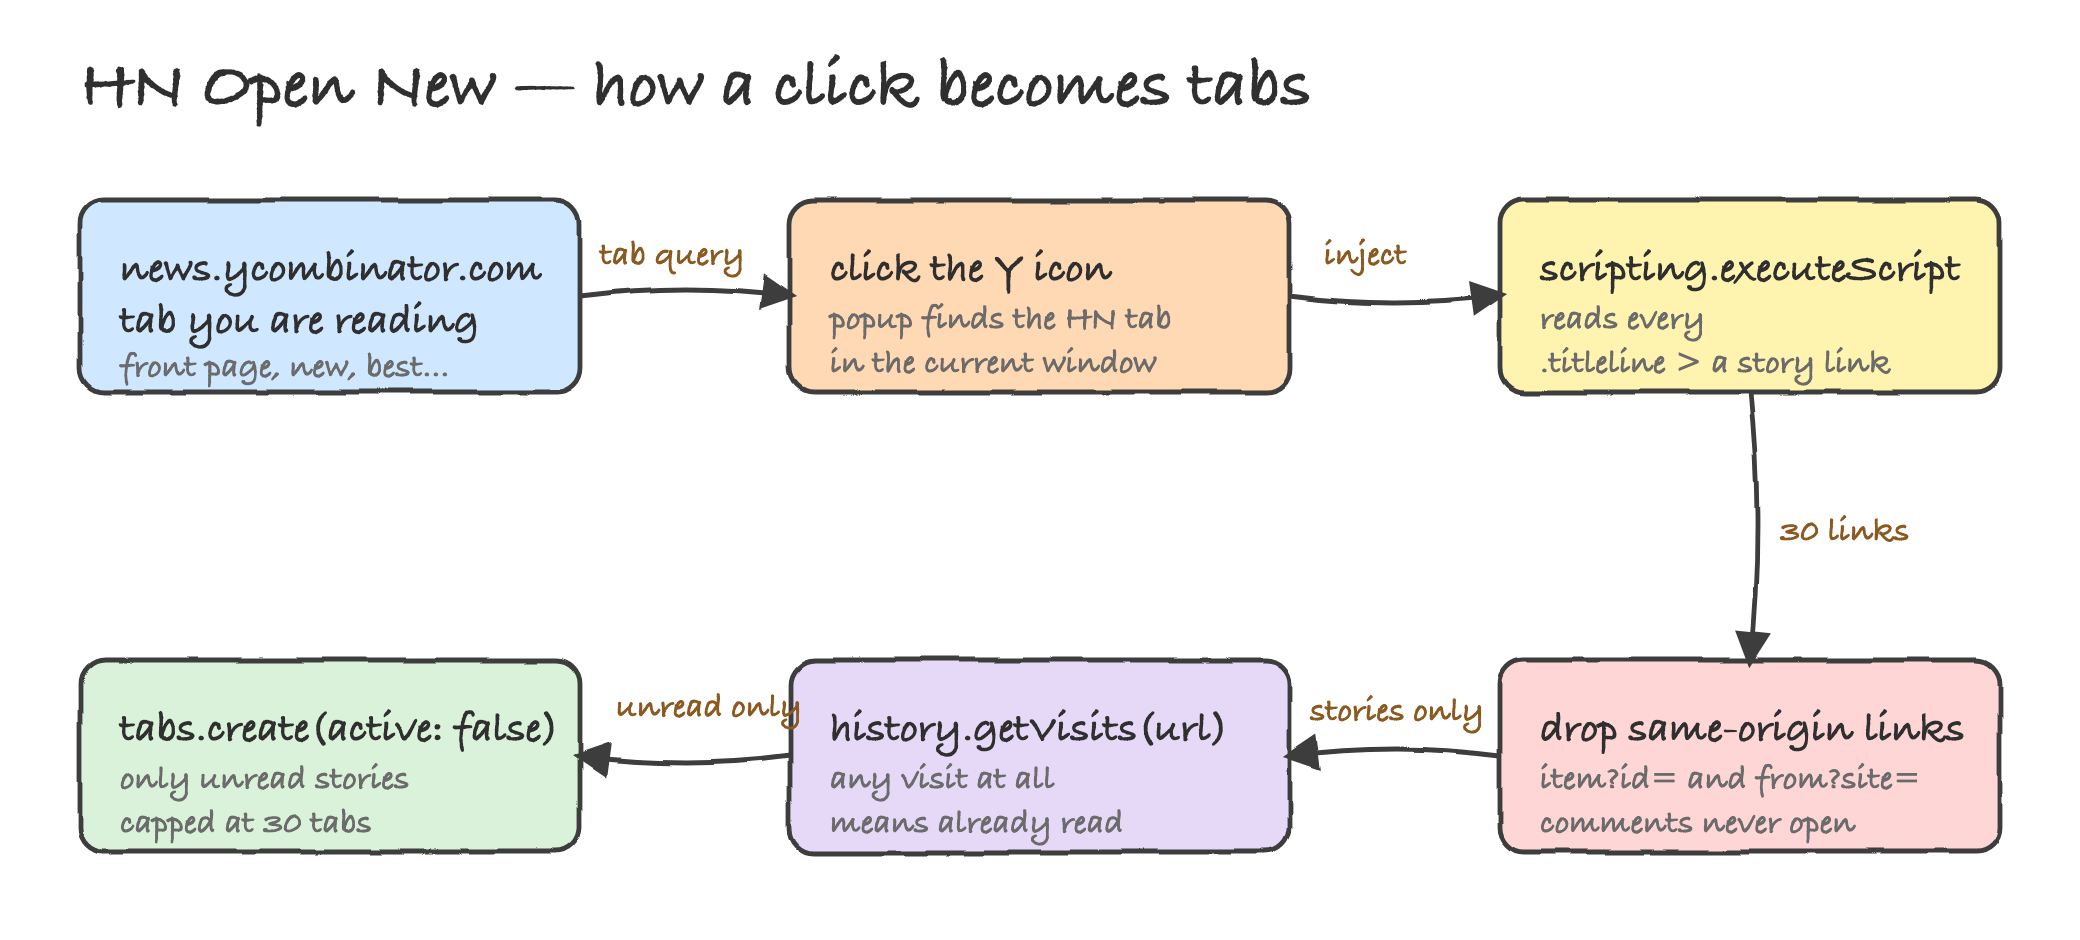
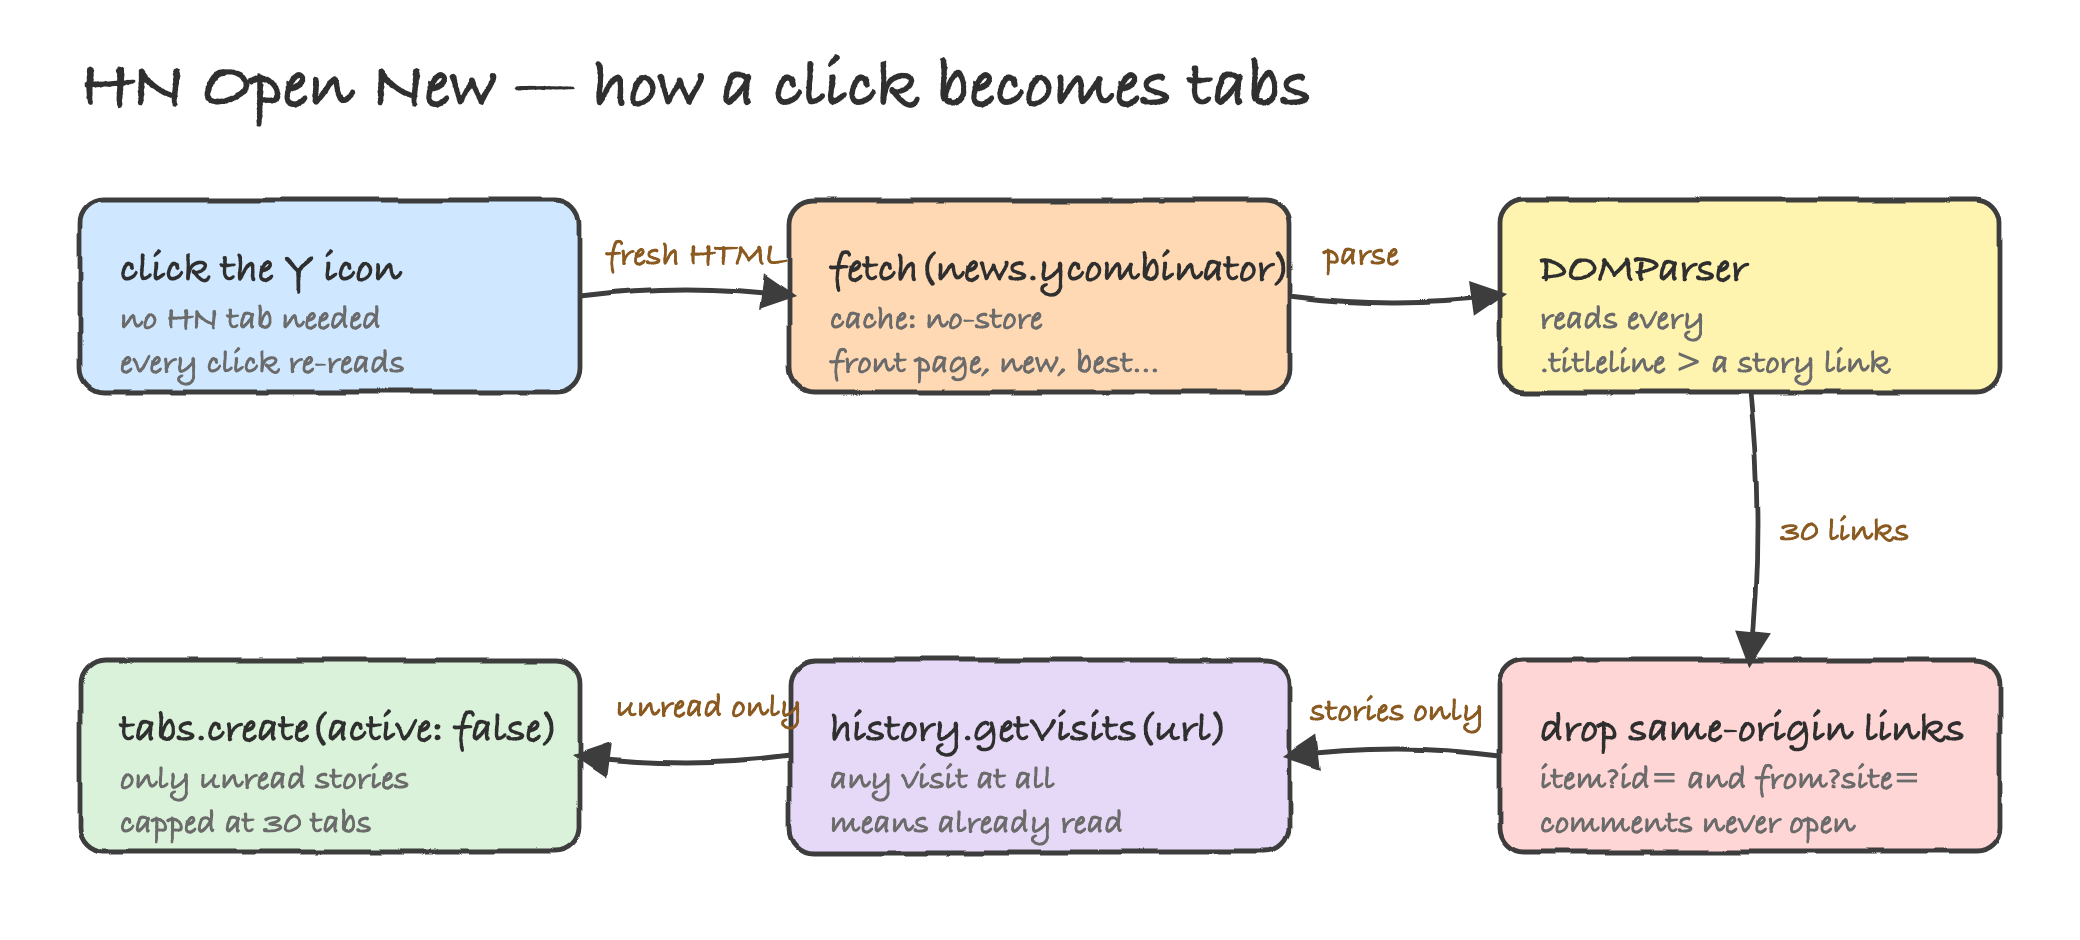
added: make ext smarter

diff --git a/pocs/chrome-ext-hn-opennew/popup.js b/pocs/chrome-ext-hn-opennew/popup.js
@@ -1,12 +1,13 @@
 const MAX_TABS = 30;
+const FRONT_PAGE = "https://news.ycombinator.com/";
 
 const statusEl = document.getElementById("status");
 const listEl = document.getElementById("list");
 const buttonEl = document.getElementById("open");
 const hintEl = document.getElementById("hint");
 
-function collect() {
-  const links = document.querySelectorAll(".athing .titleline > a, .athing a.storylink");
+function collect(doc, base) {
+  const links = doc.querySelectorAll(".athing .titleline > a, .athing a.storylink");
   return [...links]
     .map((a) => {
       const row = a.closest(".athing");
@@ -14,38 +15,35 @@ function collect() {
       return {
         rank: rank ? rank.textContent.replace(".", "").trim() : "",
         title: a.textContent.trim(),
-        url: a.href
+        url: new URL(a.getAttribute("href"), base).href
       };
     })
-    .filter((story) => {
-      try {
-        return new URL(story.url).origin !== location.origin;
-      } catch {
-        return false;
-      }
-    });
+    .filter((story) => new URL(story.url).hostname !== "news.ycombinator.com");
 }
 
-async function findHackerNewsTab() {
-  const tabs = await chrome.tabs.query({
+async function pageToRead() {
+  const [tab] = await chrome.tabs.query({
     currentWindow: true,
+    active: true,
     url: "https://news.ycombinator.com/*"
   });
-  return tabs[0];
+  return tab ? tab.url : FRONT_PAGE;
 }
 
-async function readStories(tabId) {
-  const [injection] = await chrome.scripting.executeScript({
-    target: { tabId },
-    func: collect
-  });
-  return injection.result || [];
+async function fetchStories(url) {
+  const response = await fetch(url, { cache: "no-store" });
+  if (!response.ok) throw new Error(response.status);
+  const doc = new DOMParser().parseFromString(await response.text(), "text/html");
+  return collect(doc, url);
 }
 
-async function grayVisited(tabId) {
+async function grayVisitedTabs() {
   try {
-    await chrome.scripting.insertCSS({ target: { tabId }, files: ["content.css"] });
-    await chrome.scripting.executeScript({ target: { tabId }, files: ["content.js"] });
+    const tabs = await chrome.tabs.query({ url: "https://news.ycombinator.com/*" });
+    for (const tab of tabs) {
+      await chrome.scripting.insertCSS({ target: { tabId: tab.id }, files: ["content.css"] });
+      await chrome.scripting.executeScript({ target: { tabId: tab.id }, files: ["content.js"] });
+    }
   } catch {}
 }
 
@@ -85,20 +83,23 @@ function openTabs(stories) {
 }
 
 async function start() {
-  const tab = await findHackerNewsTab();
-  if (!tab) {
-    statusEl.textContent = "No Hacker News tab in this window.";
-    hintEl.textContent = "Open news.ycombinator.com and click the icon again.";
+  statusEl.textContent = "Loading Hacker News...";
+
+  let stories;
+  try {
+    stories = await fetchStories(await pageToRead());
+  } catch {
+    statusEl.textContent = "Could not reach news.ycombinator.com.";
+    hintEl.textContent = "Check your connection and click the icon again.";
     return;
   }
 
-  await grayVisited(tab.id);
+  grayVisitedTabs();
 
-  const stories = await readStories(tab.id);
   const unread = (await filterUnvisited(stories)).slice(0, MAX_TABS);
 
   if (unread.length === 0) {
-    statusEl.textContent = `All ${stories.length} stories on this page were already opened.`;
+    statusEl.textContent = `All ${stories.length} stories were already opened.`;
     return;
   }
 

diff --git a/pocs/chrome-ext-hn-opennew/README.md b/pocs/chrome-ext-hn-opennew/README.md
@@ -2,8 +2,9 @@
 
 Chrome extension that opens every Hacker News story you have **not read yet** in background tabs.
 
-One click on the toolbar icon reads the Hacker News page you have open, keeps only the story links you never
-visited, and opens them as background tabs. Comment pages are never opened.
+One click on the toolbar icon fetches Hacker News, keeps only the story links you never visited, and opens them
+as background tabs. Comment pages are never opened. Hacker News does not have to be open: every click pulls the
+page fresh, so new stories always show up.
 
 ![HN Open New popup](printscreens/popup.png)
 
@@ -21,8 +22,9 @@ opened by the extension turn grey the next time you click the icon without a rel
 
 ![Architecture](printscreens/architecture.png)
 
-1. The popup looks for a `news.ycombinator.com` tab in the current window.
-2. It injects a small reader into that tab and collects every `.titleline > a` story link (30 on a front page).
+1. The popup fetches the front page on every click, with `cache: "no-store"` so the list is never stale. If the
+   active tab is already a Hacker News list page (`newest`, `best`), that URL is fetched instead.
+2. The HTML is parsed with `DOMParser` and every `.titleline > a` story link is collected (30 on a front page).
 3. Links pointing back to `news.ycombinator.com` (`item?id=`, `from?site=`) are dropped, so comment pages and
    site filters never open.
 4. Each remaining URL is checked against `chrome.history.getVisits`. Zero visits means never opened.
@@ -45,22 +47,23 @@ script, then tags the visited ones with a class that `content.css` paints grey.
 
 ## Use
 
-1. Go to `news.ycombinator.com` (front page, `newest`, `best`, any list page).
-2. Click the icon. The popup lists the unread stories with their HN rank.
-3. Click **Open N tabs**.
+1. Click the icon from anywhere. The popup lists the unread front page stories with their HN rank.
+2. Click **Open N tabs**.
 
-If everything on the page was already opened, the popup says so and the button stays disabled.
+If the active tab is a Hacker News list page (`newest`, `best`), that page is read instead of the front page.
+
+If everything was already opened, the popup says so and the button stays disabled.
 
 ## Permissions
 
 | Permission | Why |
 | --- | --- |
 | `history` | Read-only check of whether a story URL was ever visited |
-| `tabs` | Find the Hacker News tab and create background tabs |
-| `scripting` | Read the story links from the Hacker News page |
+| `tabs` | Read the active Hacker News list page URL and create background tabs |
+| `scripting` | Re-grey visited links on open Hacker News tabs |
 | `host_permissions: https://news.ycombinator.com/*` | The only site the extension touches |
 
-Nothing is sent anywhere, no storage, no network calls of its own.
+The only request it makes is fetching the Hacker News page itself. Nothing is sent anywhere, no storage.
 
 ## Files
 
@@ -68,7 +71,7 @@ Nothing is sent anywhere, no storage, no network calls of its own.
 manifest.json      MV3 manifest
 popup.html         popup markup
 popup.css          Hacker News styling
-popup.js           scrape, filter by history, open tabs
+popup.js           fetch and parse HN, filter by history, open tabs
 background.js      service worker answering history lookups
 content.js         tags visited story links on the page
 content.css        grey paint for visited story links
@@ -106,3 +109,19 @@ ALL CHECKS PASSED
 
 `--load-extension` is ignored by Chrome stable since 137, so the harness runs against the Chrome for Testing
 build (151) that ships with Playwright.
+
+The fetch-on-click behaviour is checked the same way, with no Hacker News tab open anywhere in the browser:
+
+```
+extension id: emoapamelbphdgemicnoefddjcbcmljj
+front page story links: 30
+popup state (no HN tab open): {"status":"30 of 30 stories never opened:","count":30,"button":"Open 30 tabs","disabled":false}
+PASS popup lists stories with NO hacker news tab open (30 stories, status: "30 of 30 stories never opened:")
+PASS open button enabled (Open 30 tabs)
+seeded history with: 3 story urls
+popup state (after seeding history): {"status":"27 of 30 stories never opened:","count":27}
+PASS visited stories are filtered out of the list (30 -> 27 after visiting 3)
+PASS newest page still loads story rows (30 rows, 1 greyed)
+
+4/4 checks passed
+```
